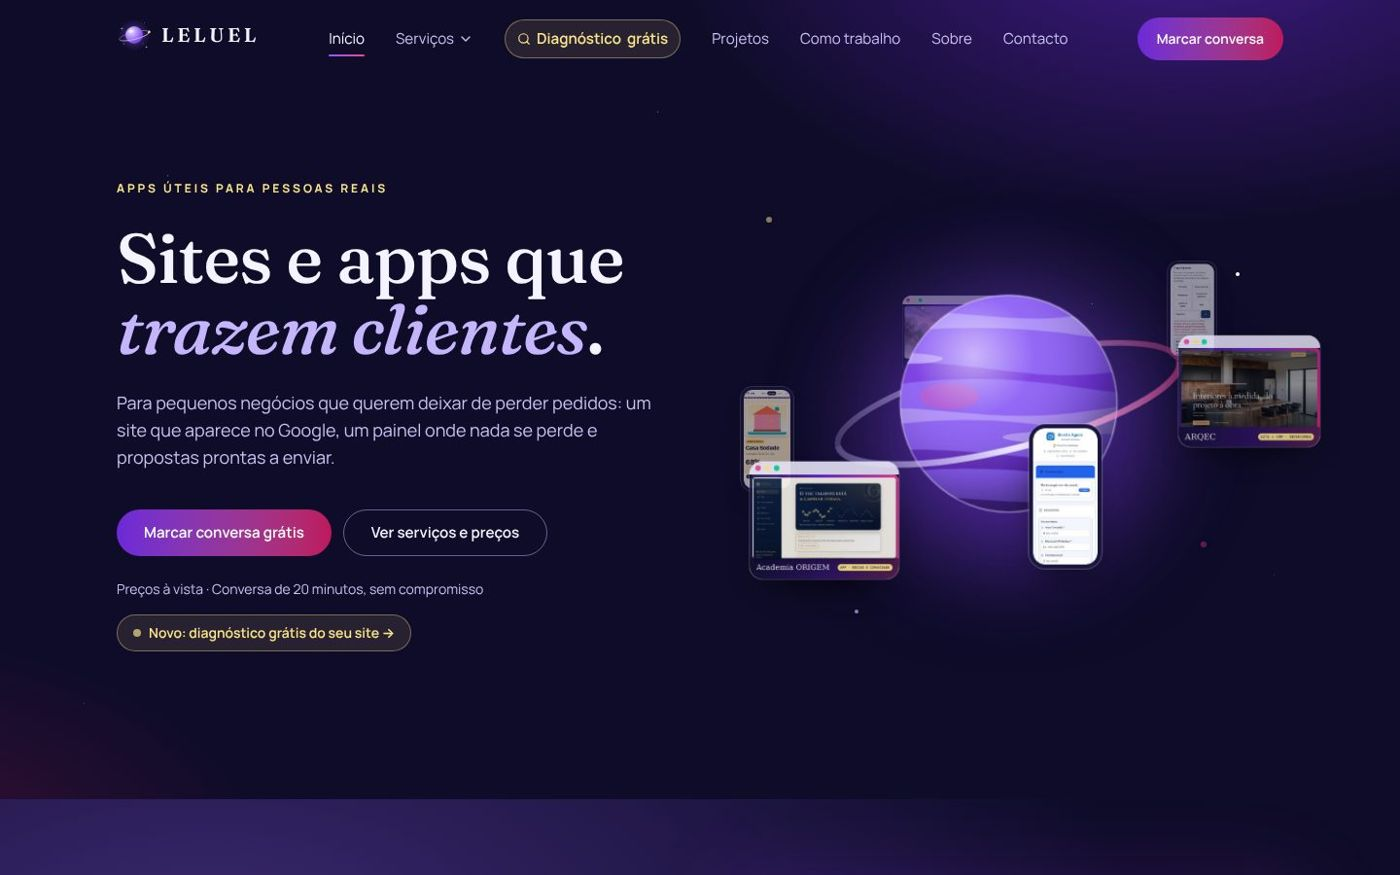
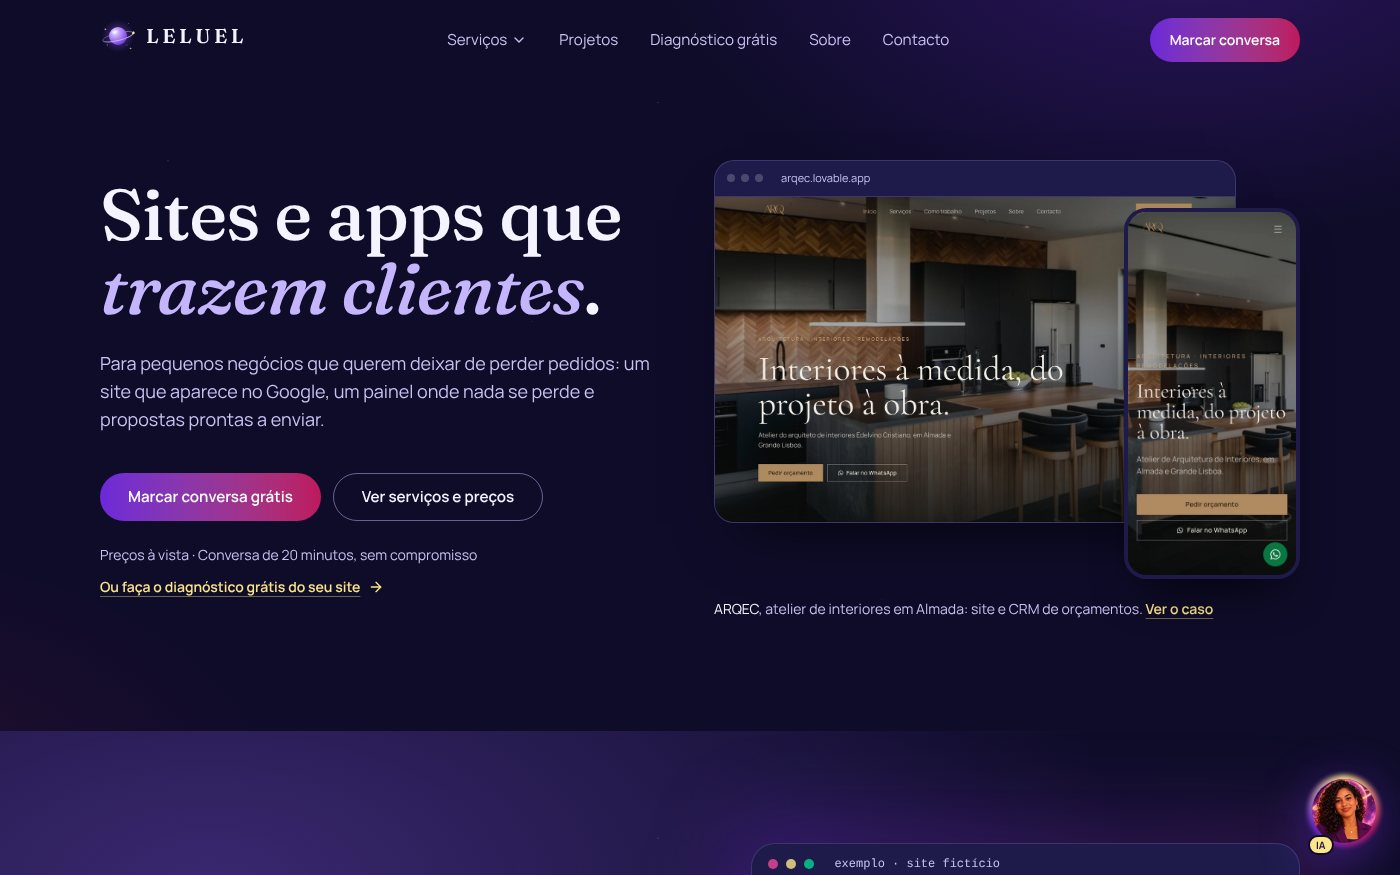
Caso LELUEL: início com trabalho real e Sophie discreta no telemóvel
O site LELUEL ficou mais sóbrio depois de uma crítica de design: as imagens do
início, do telemóvel e do «olá» da Sophie e os textos passam a mostrar o site atual.

Claude-Session: https://claude.ai/code/session_019z3RfcBF1L6Bzak6S1TqeJ

diff --git a/casos/leluel.html b/casos/leluel.html
@@ -114,8 +114,8 @@ h3{font-size:1.3rem;font-weight:600}
 <section class="block" aria-labelledby="t-faz"><div class="wrap"><div class="head"><p class="eyebrow">O que entreguei</p><h2 id="t-faz">Tudo o que foi feito, discriminado</h2></div>
 
 <p class="group-label">O site, para quem procura</p><div class="features">
-<div class="feat"><h3>Planeta em órbita</h3><p>No início, um planeta a rodar com os meus projetos em órbita, à frente e atrás dele, e uma lua que se esconde por trás. Em telemóveis, continua leve.</p></div>
-<div class="feat"><h3>O CRM a nascer, ao vivo</h3><p>Uma secção mostra o CRM a construir-se em 7 passos: marca, separadores, números do dia, pedidos, próximo passo, proposta e pagamento. Com movimento reduzido, mostra o resultado final.</p></div>
+<div class="feat"><h3>Um trabalho real logo no início</h3><p>O primeiro ecrã mostra a ARQEC no computador e no telemóvel, legível, com o link para o caso. O planeta da marca fica no logótipo. Depois de uma crítica de design, o site ficou mais sóbrio: menos brilhos, menu com 5 itens e títulos sem etiquetas por cima.</p></div>
+<div class="feat"><h3>O CRM a nascer, ao vivo</h3><p>Uma secção mostra o CRM já completo e, a seguir, a construir-se em 7 passos: marca, separadores, números do dia, pedidos, próximo passo, proposta e pagamento. Com movimento reduzido, fica no resultado final.</p></div>
 <div class="feat"><h3>8 serviços com preço à vista</h3><p>Cada serviço tem a sua página: para quem é, o antes e o depois, o que inclui, o prazo, o preço e as perguntas frequentes. O menu não mostra preços; ficam dentro de cada página.</p></div>
 <div class="feat"><h3>6 projetos reais</h3><p>ARQEC, Academia ORIGEM, ELO, Tato Digital, BlueTime e Pequenos Encantos, cada um com a sua página.</p></div>
 <div class="feat"><h3>Contacto que chega ao CRM</h3><p>O formulário guarda o pedido no CRM, com consentimento, e envia-me um aviso por email. O botão de WhatsApp leva a mensagem já escrita.</p></div>
@@ -167,7 +167,7 @@ h3{font-size:1.3rem;font-weight:600}
 </div></section>
 
 <section class="block" aria-labelledby="t-shots"><div class="wrap"><div class="head"><p class="eyebrow">Ecrãs</p><h2 id="t-shots">Como se vê</h2><p class="muted prose">As capturas do CRM são do modo demonstração, com dados de exemplo. Nenhum cliente real aparece aqui.</p></div><div class="shots">
-<figure class="wide"><img src="img/leluel-inicio.jpg" alt="Início do site LELUEL: o planeta com os projetos em órbita" loading="lazy"><figcaption>Início: o planeta com os projetos em órbita</figcaption></figure>
+<figure class="wide"><img src="img/leluel-inicio.jpg" alt="Início do site LELUEL: o título, os botões e a ARQEC no computador e no telemóvel" loading="lazy"><figcaption>Início: um trabalho real, a ARQEC, logo no primeiro ecrã</figcaption></figure>
 <figure class="wide"><img src="img/leluel-telemovel.jpg" alt="No telemóvel: início, diagnóstico e CRM" loading="lazy"><figcaption>No telemóvel: início, diagnóstico e CRM</figcaption></figure>
 <figure><img src="img/leluel-diagnostico-inicio.jpg" alt="O diagnóstico em destaque no início, com o campo para escrever o site" loading="lazy"><figcaption>O diagnóstico em destaque no início</figcaption></figure>
 <figure><img src="img/leluel-crm-nascer.jpg" alt="A secção «Veja o seu CRM a nascer», a construir-se passo a passo" loading="lazy"><figcaption>«Veja o seu CRM a nascer», passo a passo</figcaption></figure>
@@ -180,7 +180,7 @@ h3{font-size:1.3rem;font-weight:600}
 <figure><img src="img/leluel-pagamentos.jpg" alt="CRM: pagamentos e mensalidades" loading="lazy"><figcaption>Pagamentos e mensalidades</figcaption></figure>
 <figure><img src="img/leluel-proposta.jpg" alt="CRM: o editor da proposta, com os totais sempre à vista" loading="lazy"><figcaption>O editor da proposta</figcaption></figure>
 <figure class="wide"><img src="img/leluel-sophie-site.jpg" alt="A Sophie aberta no site, no computador, com o rosto, o selo IA e as perguntas rápidas" loading="lazy"><figcaption>A Sophie no site, no computador</figcaption></figure>
-<figure><img src="img/leluel-sophie-ola.jpg" alt="No telemóvel, a bolha da Sophie com «Olá! Posso ajudar?»" loading="lazy"><figcaption>No telemóvel, o «olá» da Sophie</figcaption></figure>
+<figure><img src="img/leluel-sophie-ola.jpg" alt="No telemóvel, a Sophie aparece só depois de descer a página, com «Olá! Posso ajudar?»" loading="lazy"><figcaption>No telemóvel, a Sophie só aparece depois de descer</figcaption></figure>
 <figure><img src="img/leluel-artigos.jpg" alt="A página de artigos e guias, no telemóvel" loading="lazy"><figcaption>Artigos e guias</figcaption></figure>
 <figure class="wide"><img src="img/leluel-pdf.jpg" alt="A proposta em PDF: capa, o que inclui e orçamento" loading="lazy"><figcaption>A proposta em PDF: capa, o que inclui e orçamento</figcaption></figure>
 </div></div></section>
